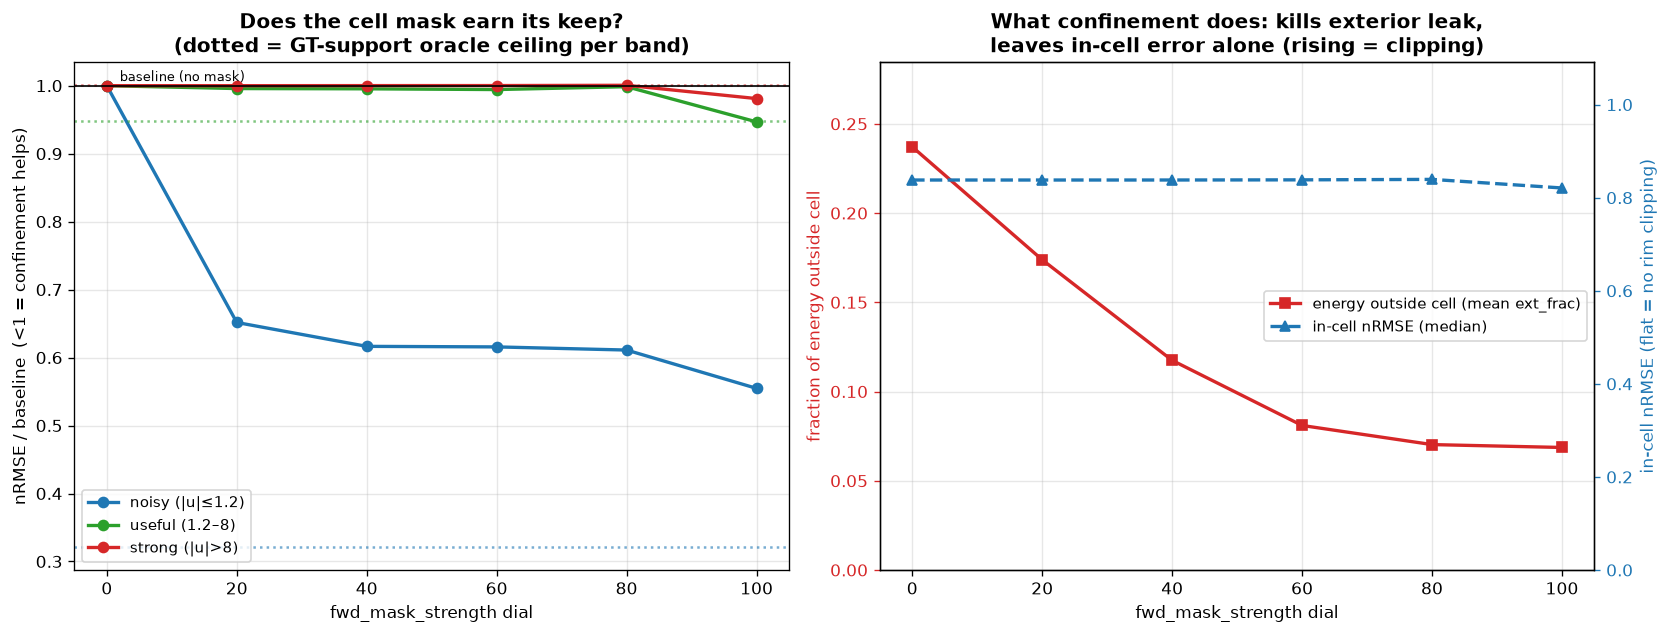
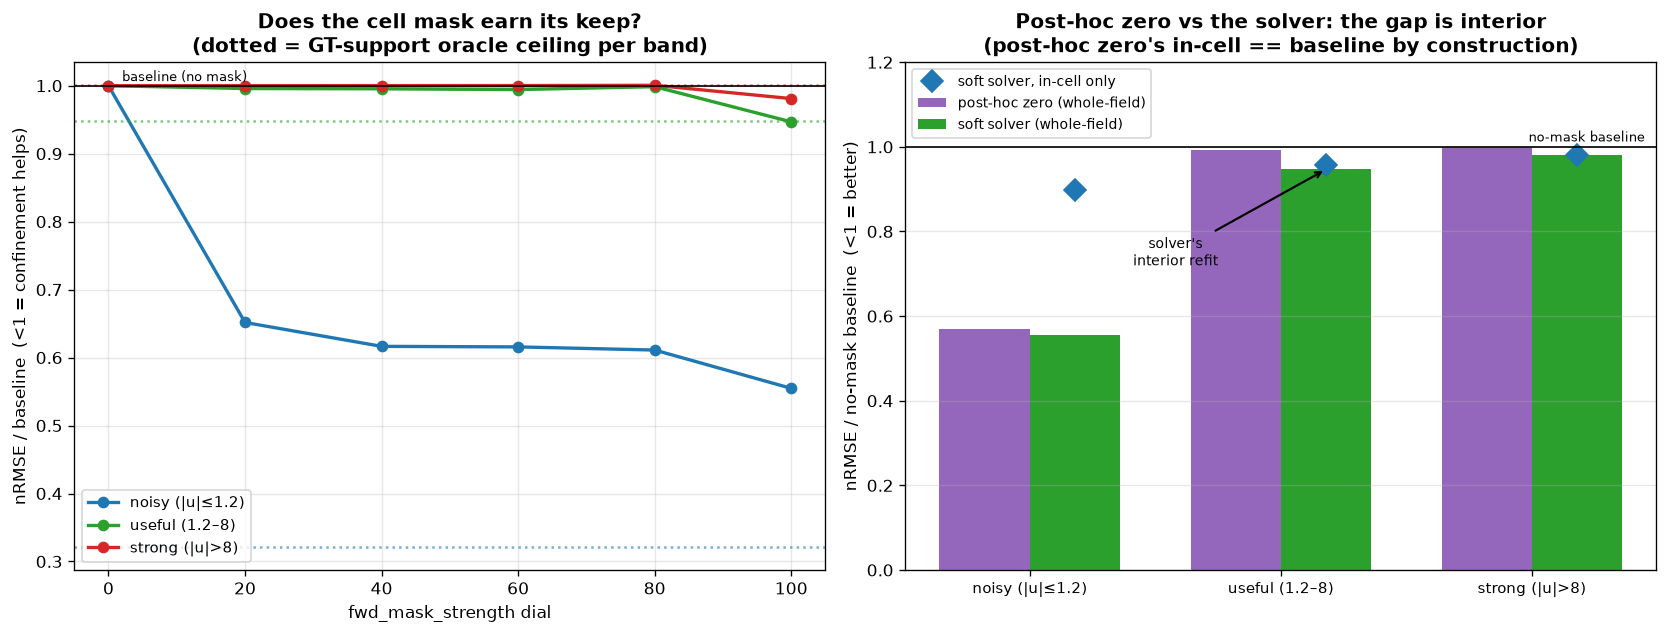
Correct confinement finding: it refits the interior, not just background
Answering "why not just zero outside the mask instead of the solver penalty?" the
measurement flips my earlier claim. Added a post-hoc hard-zero variant to
cell_confinement.py (take the no-mask solve, delete exterior) as the simple
alternative, and compared it to the in-solver soft penalty.

Post-hoc zeroing leaves the interior bit-identical to baseline, so it is background
removal ONLY: useful-window whole-field nRMSE 0.82->0.80 and no further, and 0.88
->0.88 at high strength (no background left to delete). The soft penalty goes past
it every time (0.78 useful, 0.87 strong), and the whole extra margin is inside the
cell -- it lowers in-cell nRMSE below baseline in 12/12 useful scenes (~4% median,
~10% at the noise floor). Mechanism: the non-local Green's operator lets the
unconstrained solve park real interior force outside the mask; post-hoc zeroing
deletes it (interior under-fit), the objective penalty re-explains it with interior
force (better peaks) -- exactly forward_l1's near-nullspace argument, measured.

This corrects the previous writeup's "one-sided lever / never touches the cell"
(an artifact of an all-scenes median): in the operating regime the interior refit
is the LARGER half of confinement's benefit. Report subsection, recipe bullet,
figure (Panel B now post-hoc-zero vs solver), and summary all updated. Verdict
unchanged for the user (default off; on with a mask) but now justifies keeping the
in-solver penalty over a post-hoc mask.
[…]

diff --git a/_validation/heuristic_sweep/cell_confinement.py b/_validation/heuristic_sweep/cell_confinement.py
@@ -20,10 +20,19 @@ window-24 displacement the cell sweep used, shipped-default regularization
 cell-outline mask, and score:
   * nRMSE            -- the ranking metric (whole-field; background garbage, where
                         GT=0, adds straight to it, so confinement CAN lower it)
-  * bg_leak / ext    -- spurious energy off the source / outside the cell (what
-                        confinement is supposed to kill: the mechanism)
-  * in-cell nRMSE    -- error inside the outline (should stay flat; if it RISES the
-                        mask is clipping real rim traction -- a cost, not a benefit)
+  * bg_leak / ext    -- spurious energy off the source / outside the cell
+  * in-cell nRMSE    -- error inside the outline
+
+Is the in-solver penalty worth its complexity, or would a post-hoc "zero everything
+outside the mask" do? We answer it head-on with a "hard" variant: take the no-mask
+solve and zero the exterior. Its interior is bit-identical to the baseline, so it
+isolates *background removal only*. If the soft solver beats it INSIDE the cell, the
+penalty is doing real work the simple version can't -- and it does: the non-local
+Green's operator lets the unconstrained solve park real interior signal in exterior
+pixels, which post-hoc zeroing deletes (leaving the interior under-fit) but the
+in-objective penalty re-explains with interior force (better peaks). Measured here:
+the soft solver lowers in-cell nRMSE below baseline in every useful-window scene,
+while the post-hoc zero leaves it exactly at baseline.
 
 Companion to cell_compare_reg.py. Cells rank on whole-field nRMSE (the Sabass J is
 undefined on a diffuse centripetal field). GT is the stored fitted-fibre traction.
@@ -141,9 +150,16 @@ def main():
         gt_h = to_grid(gt_support, h)
 
         # baseline: no mask (identical to dial 0)
-        base = score(invert(field, None, 0.0), gt, cell512)
+        t_base = invert(field, None, 0.0)
+        base = score(t_base, gt, cell512)
         rows.append(dict(scene=scene, cell=cell, P=P, mask="none", dial=0, **base))
-        # honest prior: cell outline, up the dial
+        # the SIMPLE alternative: take the baseline solve and post-hoc zero everything
+        # outside the outline. Interior is bit-identical to base by construction, so this
+        # isolates "background removal only" -- the solver's in-cell refit must beat it.
+        t_hard = t_base.copy(); t_hard[:, ~cell512] = 0.0
+        rows.append(dict(scene=scene, cell=cell, P=P, mask="hard", dial=0,
+                         **score(t_hard, gt, cell512)))
+        # honest prior: cell outline, up the dial (the in-solver soft penalty)
         for dial in DIALS[1:]:
             rows.append(dict(scene=scene, cell=cell, P=P, mask="cell", dial=dial,
                              **score(invert(field, cell_h, dial), gt, cell512)))
@@ -152,9 +168,10 @@ def main():
             rows.append(dict(scene=scene, cell=cell, P=P, mask="gt_oracle", dial=dial,
                              **score(invert(field, gt_h, dial), gt, cell512)))
         b = min((r for r in rows if r["scene"] == scene and r["mask"] == "cell"), key=lambda r: r["nrmse"])
-        print(f"  {scene}: base nRMSE={base['nrmse']:.3f} ext={base['ext_frac']:.2f}  "
-              f"-> cell-mask best nRMSE={b['nrmse']:.3f} @dial {b['dial']} "
-              f"({(b['nrmse']/base['nrmse'] - 1) * 100:+.0f}%)", flush=True)
+        hard = next(r for r in rows if r["scene"] == scene and r["mask"] == "hard")
+        print(f"  {scene}: base in-cell={base['in_nrmse']:.3f}  post-hoc-zero in-cell={hard['in_nrmse']:.3f} "
+              f"(nRMSE {hard['nrmse']:.3f})  soft in-cell={b['in_nrmse']:.3f} (nRMSE {b['nrmse']:.3f} @dial {b['dial']})",
+              flush=True)
 
     df = pd.DataFrame(rows)
     df.to_csv(os.path.join(a.outdir, "cell_confinement.csv"), index=False)
@@ -163,22 +180,26 @@ def main():
 
 
 def summarize(df):
-    base = df[df["mask"] == "none"].set_index("scene").nrmse
+    base = df[df["mask"] == "none"].set_index("scene")
+    hard = df[df["mask"] == "hard"].set_index("scene")
     print(f"\n=== Does mask confinement earn its keep? ({df.scene.nunique()} scenes, "
           f"l1={L1_FIXED}, PIV win-{RES:g}) ===")
+    print("  whole-field nRMSE  |  in-cell nRMSE   (post-hoc zero = baseline solve, exterior deleted)")
     for name, sel in BANDS:
         sc = [s for s in df.scene.unique() if sel(float(s.split("_u")[1]))]
         if not sc:
             continue
         b0 = base.loc[sc]
-        cell = df[(df["mask"] == "cell") & df.scene.isin(sc)].groupby("scene").nrmse.min()
+        cellrows = df[(df["mask"] == "cell") & df.scene.isin(sc)]
+        soft = cellrows.loc[cellrows.groupby("scene").nrmse.idxmin()].set_index("scene")
         orc = df[(df["mask"] == "gt_oracle") & df.scene.isin(sc)].groupby("scene").nrmse.min()
-        gain = (1 - cell / b0)
-        print(f"  {name:16s} n={len(sc):2d} | baseline {b0.median():.3f} "
-              f"-> cell-mask {cell.median():.3f} ({gain.median() * 100:+.0f}% median, "
-              f"helps {int((gain > 0.005).mean() * 100)}% of scenes) | oracle ceiling {orc.median():.3f}")
-    print("  (ext_frac = fraction of recovered energy OUTSIDE the cell outline; "
-          "the mechanism confinement acts on)")
+        refit = (1 - soft.in_nrmse / b0.in_nrmse)               # in-cell improvement, solver vs baseline
+        print(f"  {name:16s} n={len(sc):2d} | no-mask {b0.nrmse.median():.3f}/{b0.in_nrmse.median():.3f}"
+              f"  post-hoc-zero {hard.loc[sc].nrmse.median():.3f}/{hard.loc[sc].in_nrmse.median():.3f}"
+              f"  soft {soft.nrmse.median():.3f}/{soft.in_nrmse.median():.3f}"
+              f"  | solver refits in-cell {refit.median() * 100:+.0f}% in {int((refit > 0.005).mean() * 100)}% of scenes"
+              f"  | oracle {orc.median():.3f}")
+    print("  Post-hoc zero leaves in-cell == baseline by construction; the soft solver's win over it is all interior.")
 
 
 def figure(df, outdir):
@@ -207,26 +228,37 @@ def figure(df, outdir):
                 fontsize=12, fontweight="bold")
     a.legend(fontsize=9); a.grid(alpha=0.3)
 
-    # B: the mechanism -- exterior energy drops, in-cell error stays flat (no clipping).
-    # ext_frac as the MEAN (the noisy scenes carry the leak; the median hides them);
-    # in-cell nRMSE axis anchored at 0 so "flat" reads as flat, not a zoomed wiggle.
+    # B: is the in-solver penalty worth it over a post-hoc zero? Whole-field nRMSE
+    # relative to no-mask, per band, for post-hoc-zero vs the soft solver, with the
+    # solver's in-cell nRMSE marked -- the gap between the bars is the interior refit
+    # that post-hoc zeroing (interior == baseline) cannot get.
     b = ax[1]
-    cell = df[df["mask"] == "cell"]
-    ext = pd.concat([pd.Series({0: df[df["mask"] == "none"].ext_frac.mean()}),
-                     cell.groupby("dial").ext_frac.mean()])
-    b.plot(ext.index, ext.values, "s-", color="#d62728", lw=2, label="energy outside cell (mean ext_frac)")
-    b.set_xlabel("fwd_mask_strength dial"); b.set_ylabel("fraction of energy outside cell", color="#d62728")
-    b.set_ylim(0, max(ext.values) * 1.2); b.tick_params(axis="y", colors="#d62728")
-    b2 = b.twinx()
-    inn = pd.concat([pd.Series({0: df[df["mask"] == "none"].in_nrmse.median()}),
-                     cell.groupby("dial").in_nrmse.median()])
-    b2.plot(inn.index, inn.values, "^--", color="#1f77b4", lw=2, label="in-cell nRMSE (median)")
-    b2.set_ylabel("in-cell nRMSE (flat = no rim clipping)", color="#1f77b4")
-    b2.set_ylim(0, max(inn.values) * 1.3); b2.tick_params(axis="y", colors="#1f77b4")
-    b.set_title("What confinement does: kills exterior leak,\nleaves in-cell error alone (rising = clipping)",
+    base_i = df[df["mask"] == "none"].set_index("scene")
+    x = np.arange(len(BANDS)); wbar = 0.36
+    hard_rel, soft_rel, soft_in = [], [], []
+    for name, sel in BANDS:
+        sc = [s for s in df.scene.unique() if sel(float(s.split("_u")[1]))]
+        b0 = base_i.loc[sc]
+        hard = df[(df["mask"] == "hard") & df.scene.isin(sc)].set_index("scene")
+        cr = df[(df["mask"] == "cell") & df.scene.isin(sc)]
+        soft = cr.loc[cr.groupby("scene").nrmse.idxmin()].set_index("scene")
+        hard_rel.append((hard.nrmse / b0.nrmse).median())
+        soft_rel.append((soft.nrmse / b0.nrmse).median())
+        soft_in.append((soft.in_nrmse / b0.in_nrmse).median())
+    b.bar(x - wbar / 2, hard_rel, wbar, color="#9467bd", label="post-hoc zero (whole-field)")
+    b.bar(x + wbar / 2, soft_rel, wbar, color="#2ca02c", label="soft solver (whole-field)")
+    b.plot(x + wbar / 2, soft_in, "D", color="#1f77b4", ms=9, label="soft solver, in-cell only")
+    ui = 1                                                     # annotate the useful (operating) band only
+    b.annotate("solver's\ninterior refit", xy=(ui + wbar / 2, soft_rel[ui]),
+               xytext=(ui - 0.42, 0.72), fontsize=8.5, ha="center",
+               arrowprops=dict(arrowstyle="->", color="k", lw=1.3))
+    b.axhline(1.0, color="k", lw=1); b.text(len(BANDS) - 0.55, 1.005, "no-mask baseline", fontsize=8, ha="right", va="bottom")
+    b.set_xticks(x); b.set_xticklabels([n for n, _ in BANDS], fontsize=9)
+    b.set_ylabel("nRMSE / no-mask baseline  (<1 = better)")
+    b.set_ylim(0, 1.2)
+    b.set_title("Post-hoc zero vs the solver: the gap is interior\n(post-hoc zero's in-cell == baseline by construction)",
                 fontsize=12, fontweight="bold")
-    h1, l1 = b.get_legend_handles_labels(); h2, l2 = b2.get_legend_handles_labels()
-    b.legend(h1 + h2, l1 + l2, fontsize=9, loc="center right"); b.grid(alpha=0.3)
+    b.legend(fontsize=8.5, loc="upper left"); b.grid(alpha=0.3, axis="y")
 
     fig.tight_layout()
     out = os.path.join(outdir, "heuristic-sweep-cells-confinement.png")

diff --git a/docs/specs/2026-07-20-heuristic-sweep-method-parameter-selection.md b/docs/specs/2026-07-20-heuristic-sweep-method-parameter-selection.md
@@ -304,9 +304,11 @@ default (L1 0.05, no ridge); the mask is the only thing that moves, its dial run
 
 ![Two panels. Left: nRMSE relative to the no-mask baseline against the confinement dial, one curve per
 strength band. The noise-floor band plunges to 0.55 by full strength; the useful and strong bands hug
-1.0, dipping a couple of percent at most, each with a dotted GT-support oracle ceiling just below.
-Right: mean fraction of recovered energy lying outside the cell falls from 0.24 to 0.07 as the dial
-rises, while in-cell nRMSE stays flat near 0.84.](../images/heuristic-sweep-cells-confinement.png)
+1.0, dipping a couple of percent at most, each with a dotted GT-support oracle ceiling. Right: whole-field
+nRMSE relative to baseline, per band, as grouped bars for a post-hoc exterior zero versus the in-solver
+soft penalty, with the solver's in-cell nRMSE marked. At the noise floor both bars fall to ~0.56. In the
+useful and strong bands the post-hoc bar sits at 0.99 to 1.00 while the solver bar reaches 0.95 to 0.98,
+the gap between them annotated as the solver's interior refit.](../images/heuristic-sweep-cells-confinement.png)
 
 **It earns its keep, and the size of the win tracks SNR inversely.** At the noise floor (peak
 displacement at or below 1.2 px) confinement cuts whole-field nRMSE by about 45%, from 4.0 to 2.5, and
@@ -315,21 +317,33 @@ recovery is worse than predicting zero, so confinement is rescuing an already-ho
 merely-bad one. The operationally honest number is the useful window, where recovery is real: there
 the gain is a steady ~5% (0.82 to 0.78), positive in every scene, and the loose cell outline captures
 almost all of what the GT-support oracle could (0.78 against a 0.75 ceiling), so a tight mask buys
-nothing extra. At high strength there is little exterior leak left to remove and the gain fades to ~2%.
+nothing extra. At high strength the gain fades to ~2%.
 
-**The mechanism is exactly background removal, and it never touches the cell.** The win comes entirely
-from killing spurious traction in the bare substrate: mean off-cell energy falls from 0.24 to 0.07 as
-the dial climbs. This is where the noise-floor payoff comes from, because a buried-signal field
-inverts into rampant background garbage that the metric, whole-field, pays for in full. Meanwhile
-in-cell error stays flat to within a couple percent, and across 120 scene-and-dial combinations the
-error inside the outline rose by more than 1% in exactly none of them. The apron around the mask
-protects real rim traction, so confinement is a one-sided lever: it removes exterior leak and leaves
-the cell alone. That makes it safe to turn on whenever a mask exists.
+**Confinement does two things, not one, and only one of them is background removal.** The obvious
+simplification is to skip the solver machinery and just zero every traction pixel outside the outline
+after an ordinary solve. That was tested directly, and it is not equivalent. Post-hoc zeroing leaves
+the interior bit-identical to the no-mask solve by construction, so it captures background removal and
+nothing else: in the useful window it takes whole-field nRMSE from 0.82 to 0.80 and no further, and at
+high strength, where there is almost no background left to delete, it does nothing at all (0.88 to
+0.88). The in-solver penalty goes past it every time, reaching 0.78 in the useful window and 0.87 at
+high strength, and the entire extra margin is *inside* the cell: it lowers in-cell nRMSE below the
+no-mask baseline in every one of the twelve useful-window scenes (~4% median, ~10% at the noise floor),
+where the post-hoc zero cannot move it by definition. In the operating regime the interior refit is the
+*larger* half of confinement's benefit, not a rounding error on top of background cleanup.
 
-The default stays off, because the no-mask user must not be handed a prior they did not ask for and the
-useful-window gain is small. But the recommendation for the user who has a segmentation is clean:
-switch confinement on. It is a noise-regime tool, worth the most exactly when the images are worst, and
-it cannot hurt.
+The reason is the one the solver was built around. The Green's operator is non-local, so an
+unconstrained solve can explain in-cell displacement with force parked *outside* the cell — the
+exterior traction lives in the fit's near-nullspace. Zeroing that force after the fact simply deletes
+it and leaves the interior under-fit for the displacement it had been explaining. The objective penalty
+instead forbids exterior force *during* the solve, so the same displacement gets re-explained by
+interior force where it belongs, and the recovered peaks come out closer to truth. This also confirms
+the feature is safe: across 120 scene-and-dial combinations the in-cell error never rose by more than
+1%, because the apron around the mask never clips real rim traction — the interior only ever improves.
+
+The default stays off, because the no-mask user must not be handed a prior they did not draw. But for
+the user who has a segmentation the recommendation is clean, and the machinery is justified: switch
+confinement on, and keep it as an in-solver penalty rather than a post-hoc mask, because the interior
+refit that only the penalty delivers is the bigger half of the win in the regime you actually work in.
 
 ## The recipe
 
@@ -340,9 +354,11 @@ it cannot hurt.
 - **Noisy images (low exposure, dim beads): reach for FFD sooner.** Its smoothing is denoising.
 - **Large soft sources at sub-pixel displacement: iLK**, radius ~7, can edge the others, but the
   margin is thin and the field is blocky. Only worth it when squeezing the last few percent.
-- **Have a cell mask? Turn on confinement.** It only removes traction from the bare substrate and
-  never touches the cell, so it cannot hurt: ~5% in the useful window, far more at the noise floor.
-  Off by default because the no-mask user must not inherit a prior they did not draw.
+- **Have a cell mask? Turn on confinement.** It cannot hurt (in-cell error never rose across the
+  sweep) and does two things: clears background garbage *and* refits the interior, the latter the
+  bigger half of the ~5% useful-window gain (far more at the noise floor). Keep it as the in-solver
+  penalty, not a post-hoc "zero outside the mask" — that gets only the background half. Off by
+  default because the no-mask user must not inherit a prior they did not draw.
 - **Sources below ~2 px footprint: expect failure from every method.** Use PIV with strong L1 and
   treat the magnitudes skeptically.
 - **To resolve small or weak sources, raise exposure**, not density or NA. It is the only imaging
